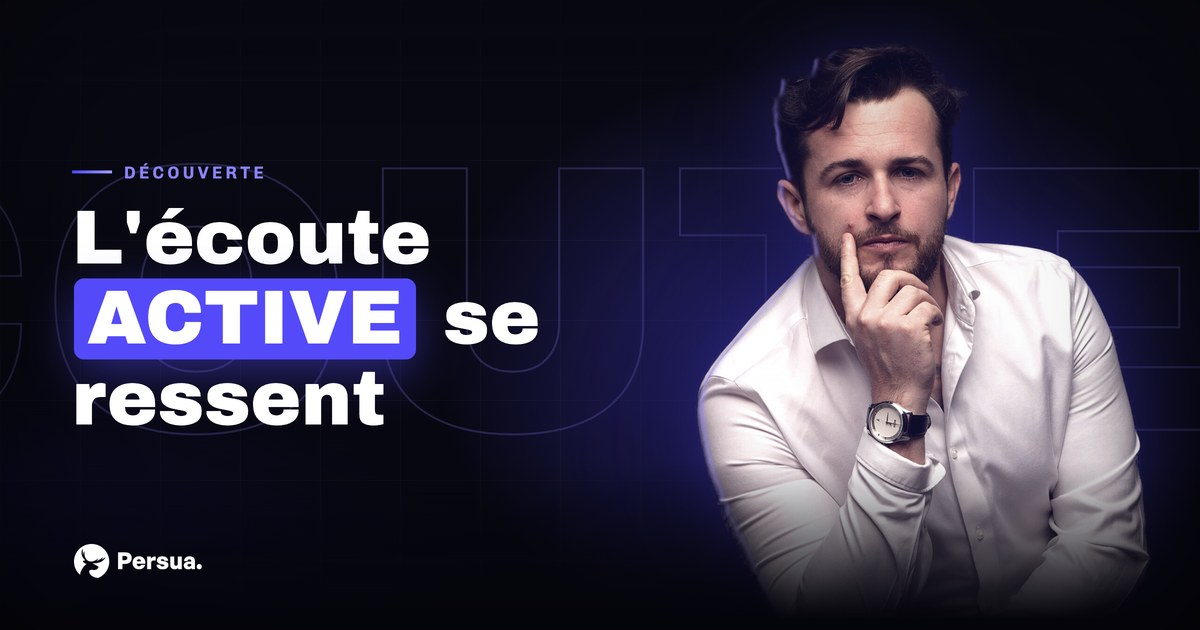
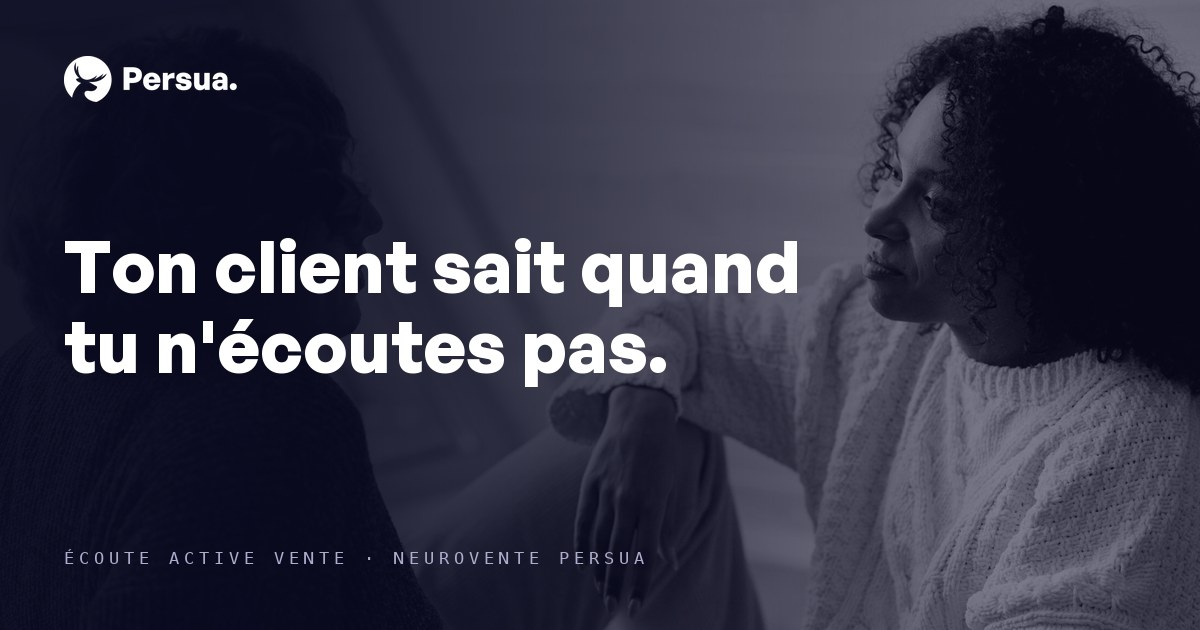
seo: publie /ecoute-active-vente (planning éditorial)

diff --git a/ecoute-active-vente.html b/ecoute-active-vente.html
@@ -9,10 +9,10 @@
 <meta property="og:image:height" content="630">
 <meta name="twitter:card" content="summary_large_image">
 <title>Écoute active en vente : écouter pour comprendre | Persua</title>
-<meta name="description" content="L'écoute active en vente : les 3 niveaux d'écoute, les signaux qui trahissent la fausse écoute, et comment écouter fait signer vos clients. Diagnostic gratuit.">
+<meta name="description" content="L'écoute active en vente : les 3 niveaux d'écoute, les signaux qui trahissent la fausse écoute, et comment écouter fait signer tes clients. Diagnostic gratuit.">
 <link rel="canonical" href="https://persua-neurovente.com/ecoute-active-vente">
 <meta property="og:type" content="article">
-<meta property="og:title" content="Écoute active en vente : votre client sait quand vous attendez votre tour de parler">
+<meta property="og:title" content="Écoute active en vente : ton client sait quand tu attends ton tour de parler">
 <meta property="og:description" content="Le cerveau du client détecte la fausse écoute. Les 3 niveaux d'écoute, et comment écouter vraiment fait vendre.">
 <link rel="preconnect" href="https://fonts.googleapis.com">
 <link rel="preconnect" href="https://fonts.gstatic.com" crossorigin>
@@ -20,10 +20,10 @@
 <link href="https://fonts.googleapis.com/css2?family=Archivo+Black&family=Chivo:wght@700;800;900&display=swap" rel="stylesheet">
 <link rel="stylesheet" href="assets/styles.css?v=37">
 <script type="application/ld+json">
-{"@context":"https://schema.org","@type":"Article","image":"https://persua-neurovente.com/assets/articles/ecoute-active-vente.jpg","headline":"Écoute active en vente : votre client sait quand vous attendez votre tour de parler","description":"La différence entre écouter pour comprendre et attendre son tour de parler, les signaux qui trahissent la fausse écoute (regard, relances mécaniques), les 3 niveaux d'écoute, et comment une vraie écoute transforme la découverte et le closing.","author":{"@type":"Person","name":"Steven Lefrançois","jobTitle":"Formateur en neurovente","url":"https://persua-neurovente.com/a-propos","sameAs":["https://www.linkedin.com/in/stevenlfrs","https://www.youtube.com/@steven_vente_persua"]},"publisher":{"@type":"Organization","name":"Persua"},"datePublished":"2026-10-08","inLanguage":"fr","mainEntityOfPage":"https://persua-neurovente.com/ecoute-active-vente","about":["écoute active vente","écoute active commercial","techniques d'écoute active","neurovente"]}
+{"@context":"https://schema.org","@type":"Article","image":"https://persua-neurovente.com/assets/articles/ecoute-active-vente.jpg","headline":"Écoute active en vente : ton client sait quand tu attends ton tour de parler","description":"La différence entre écouter pour comprendre et attendre son tour de parler, les signaux qui trahissent la fausse écoute (regard, relances mécaniques), les 3 niveaux d'écoute, et comment une vraie écoute transforme la découverte et le closing.","author":{"@type":"Person","name":"Steven Lefrançois","jobTitle":"Formateur en neurovente","url":"https://persua-neurovente.com/a-propos","sameAs":["https://www.linkedin.com/in/stevenlfrs","https://www.youtube.com/@steven_vente_persua"]},"publisher":{"@type":"Organization","name":"Persua"},"datePublished":"2026-10-08","inLanguage":"fr","mainEntityOfPage":"https://persua-neurovente.com/ecoute-active-vente","about":["écoute active vente","écoute active commercial","techniques d'écoute active","neurovente"]}
 </script>
 <script type="application/ld+json">
-{"@context":"https://schema.org","@type":"FAQPage","mainEntity":[{"@type":"Question","name":"Qu'est-ce que l'écoute active en vente ?","acceptedAnswer":{"@type":"Answer","text":"Écouter pour comprendre la situation du client, au lieu de préparer sa réponse pendant qu'il parle. Concrètement : le laisser finir, reformuler dans ses mots, creuser ce qu'il vient de dire avant d'ajouter quoi que ce soit. Le client se sent compris, et il livre les informations qui font signer."}},{"@type":"Question","name":"Comment pratiquer l'écoute active en rendez-vous ?","acceptedAnswer":{"@type":"Answer","text":"Trois gestes simples : laissez un silence d'une seconde après chaque réponse du client, reformulez ses mots exacts avant de rebondir, et posez votre question suivante sur ce qu'il vient de dire plutôt que sur votre liste. Si votre question suivante existait avant sa réponse, vous n'écoutiez pas."}},{"@type":"Question","name":"Quels sont les 3 niveaux d'écoute ?","acceptedAnswer":{"@type":"Answer","text":"Niveau 1 : écouter pour répondre, l'attention est sur soi. Niveau 2 : écouter pour comprendre, l'attention est sur les mots du client. Niveau 3 : écouter ce qui dépasse les mots, les hésitations, les changements de ton, ce que le client tait. Les ventes se gagnent au niveau 3."}},{"@type":"Question","name":"Pourquoi mon client sent-il que je n'écoute pas ?","acceptedAnswer":{"@type":"Answer","text":"Parce que votre cerveau ne sait pas faire deux choses à la fois : préparer votre réponse et écouter. Votre regard se fige, vos relances deviennent mécaniques, vos questions arrivent à côté. Le client capte ces signaux automatiquement, se sent réduit à un numéro de dossier, et se referme."}}]}
+{"@context":"https://schema.org","@type":"FAQPage","mainEntity":[{"@type":"Question","name":"Qu'est-ce que l'écoute active en vente ?","acceptedAnswer":{"@type":"Answer","text":"Écouter pour comprendre la situation du client, au lieu de préparer sa réponse pendant qu'il parle. Concrètement : le laisser finir, reformuler dans ses mots, creuser ce qu'il vient de dire avant d'ajouter quoi que ce soit. Le client se sent compris, et il livre les informations qui font signer."}},{"@type":"Question","name":"Comment pratiquer l'écoute active en rendez-vous ?","acceptedAnswer":{"@type":"Answer","text":"Trois gestes simples : laisse un silence d'une seconde après chaque réponse du client, reformule ses mots exacts avant de rebondir, et pose ta question suivante sur ce qu'il vient de dire plutôt que sur ta liste. Si ta question suivante existait avant sa réponse, tu n'écoutais pas."}},{"@type":"Question","name":"Quels sont les 3 niveaux d'écoute ?","acceptedAnswer":{"@type":"Answer","text":"Niveau 1 : écouter pour répondre, l'attention est sur soi. Niveau 2 : écouter pour comprendre, l'attention est sur les mots du client. Niveau 3 : écouter ce qui dépasse les mots, les hésitations, les changements de ton, ce que le client tait. Les ventes se gagnent au niveau 3."}},{"@type":"Question","name":"Pourquoi mon client sent-il que je n'écoute pas ?","acceptedAnswer":{"@type":"Answer","text":"Parce que ton cerveau ne sait pas faire deux choses à la fois : préparer ta réponse et écouter. Ton regard se fige, tes relances deviennent mécaniques, tes questions arrivent à côté. Le client capte ces signaux automatiquement, se sent réduit à un numéro de dossier, et se referme."}}]}
 </script>
 <script type="application/ld+json">
 {"@context":"https://schema.org","@type":"BreadcrumbList","itemListElement":[{"@type":"ListItem","position":1,"name":"Accueil","item":"https://persua-neurovente.com/"},{"@type":"ListItem","position":2,"name":"Blog","item":"https://persua-neurovente.com/blog"},{"@type":"ListItem","position":3,"name":"Écoute active en vente","item":"https://persua-neurovente.com/ecoute-active-vente"}]}
@@ -43,10 +43,10 @@
 <article class="article">
   <div class="crumb"><a href="/">Accueil</a> / <a href="/blog">Blog</a> / Fondamentaux</div>
   <span class="a-cat">Fondamentaux</span>
-  <h1>Écoute active en vente : votre client sait quand vous attendez votre tour de parler</h1>
+  <h1>Écoute active en vente : ton client sait quand tu attends ton tour de parler</h1>
   <div class="a-meta"><span class="av">SL</span><span>Par Steven Lefrançois · 6 min de lecture</span></div>
 
-  <p class="lead">Votre client parle, et pendant qu'il parle, vous préparez déjà votre réponse. Vous hochez la tête, vous glissez un « je comprends », et dès qu'il respire, vous placez votre argument. Vous croyez écouter. Lui, il sent très précisément que non. Et ce détail invisible vous coûte plus de ventes que toutes vos objections réunies, parce qu'un client qui ne se sent pas écouté garde pour lui les informations qui font signer.</p>
+  <p class="lead">Ton client parle, et pendant qu'il parle, tu prépares déjà ta réponse. Tu hoches la tête, tu glisses un « je comprends », et dès qu'il respire, tu places ton argument. Tu crois écouter. Lui, il sent très précisément que non. Et ce détail invisible te coûte plus de ventes que toutes tes objections réunies, parce qu'un client qui ne se sent pas écouté garde pour lui les informations qui font signer.</p>
 
   <figure class="article-hero"><img src="assets/articles/ecoute-active-vente.jpg" width="1200" height="630" loading="lazy" decoding="async" alt="Écoute active en vente : un commercial qui écoute pour comprendre son client au lieu d'attendre son tour de parler, méthode Persua"><figcaption>Le client dit tout. Encore faut-il être là quand il le dit.</figcaption></figure>
 
@@ -62,24 +62,24 @@
     </div>
 
     <h2>Écouter ou attendre son tour : le test qui fait mal</h2>
-    <p>Faites le test sur votre prochain rendez-vous. Pendant que votre client répond à votre question, observez où est votre attention : sur ses mots, ou sur la phrase que vous allez dire ensuite ? Si votre question suivante existait avant sa réponse, vous n'écoutiez pas, vous attendiez. La raison tient à un fait simple sur l'attention : la mémoire de travail est étroite, environ quatre éléments à la fois selon les travaux relayés par le <a href="https://www.cnrs.fr/fr" target="_blank" rel="noopener">CNRS</a> sur la <b>charge cognitive</b>. Préparer une réponse consomme cette capacité. Ce que le client dit pendant ce temps est perdu, et c'est précisément là qu'il lâche les vraies informations : le budget réel, la peur cachée, le décideur absent.</p>
+    <p>Fais le test sur ton prochain rendez-vous. Pendant que ton client répond à ta question, observe où est ton attention : sur ses mots, ou sur la phrase que tu vas dire ensuite ? Si ta question suivante existait avant sa réponse, tu n'écoutais pas, tu attendais. La raison tient à un fait simple sur l'attention : la mémoire de travail est étroite, environ quatre éléments à la fois selon les travaux relayés par le <a href="https://www.cnrs.fr/fr" target="_blank" rel="noopener">CNRS</a> sur la <b>charge cognitive</b>. Préparer une réponse consomme cette capacité. Ce que le client dit pendant ce temps est perdu, et c'est précisément là qu'il lâche les vraies informations : le budget réel, la peur cachée, le décideur absent.</p>
 
-    <h2>Votre client détecte la fausse écoute</h2>
-    <p>Le pire, c'est qu'il le voit. Le regard qui se fige ou décroche une demi-seconde, la relance mécanique placée au mauvais moment, la question suivante sans lien avec ce qu'il vient de confier. Le cerveau humain est une machine sociale : il capte ces micro-signaux de désengagement automatiquement, sans analyse consciente, comme le montrent les recherches en cognition sociale référencées sur <a href="https://pubmed.ncbi.nlm.nih.gov/" target="_blank" rel="noopener">PubMed</a>. Ce que votre client ressent alors ressemble à une relégation : il devient un dossier de plus. Sa confiance baisse, sa parole se raréfie, et votre <a href="/la-decouverte-en-vente">découverte</a> tourne à l'interrogatoire administratif. La fausse écoute se paie cash, en informations que vous n'aurez jamais.</p>
+    <h2>Ton client détecte la fausse écoute</h2>
+    <p>Le pire, c'est qu'il le voit. Le regard qui se fige ou décroche une demi-seconde, la relance mécanique placée au mauvais moment, la question suivante sans lien avec ce qu'il vient de confier. Le cerveau humain est une machine sociale : il capte ces micro-signaux de désengagement automatiquement, sans analyse consciente, comme le montrent les recherches en cognition sociale référencées sur <a href="https://pubmed.ncbi.nlm.nih.gov/" target="_blank" rel="noopener">PubMed</a>. Ce que ton client ressent alors ressemble à une relégation : il devient un dossier de plus. Sa confiance baisse, sa parole se raréfie, et ta <a href="/la-decouverte-en-vente">découverte</a> tourne à l'interrogatoire administratif. La fausse écoute se paie cash, en informations que tu n'auras jamais.</p>
 
     <figure class="article-hero" style="margin:34px 0"><img src="assets/articles/ecoute-active-vente-2.jpg" width="1200" height="675" loading="lazy" decoding="async" alt="Groupe en discussion, chacun tourné vers celui qui parle"><figcaption>L'écoute se voit : posture, regard, relances dans les mots de l'autre.</figcaption></figure>
 
     <h2>Les 3 niveaux d'écoute</h2>
-    <p>Pour progresser, situez-vous d'abord. Il existe trois niveaux d'écoute, et chacun change ce que le client vous donne :</p>
+    <p>Pour progresser, situe-toi d'abord. Il existe trois niveaux d'écoute, et chacun change ce que le client te donne :</p>
     <ul>
-      <li><b>Niveau 1 : écouter pour répondre.</b> Votre attention est sur vous, votre réponse, votre offre. Vous entendez des mots-clés et vous dégainez. Le client s'en aperçoit et reste en surface.</li>
-      <li><b>Niveau 2 : écouter pour comprendre.</b> Votre attention est sur ses mots. Vous laissez finir, vous reformulez dans ses termes, vous creusez avant d'ajouter quoi que ce soit. Le client se sent compris et développe.</li>
-      <li><b>Niveau 3 : écouter ce qui dépasse les mots.</b> L'hésitation avant « oui », le changement de ton sur le budget, le sujet systématiquement évité. À ce niveau, vous entendez ce que le client ne s'est pas encore dit à lui-même. Les ventes se gagnent ici.</li>
+      <li><b>Niveau 1 : écouter pour répondre.</b> Ton attention est sur toi, ta réponse, ton offre. Tu entends des mots-clés et tu dégaines. Le client s'en aperçoit et reste en surface.</li>
+      <li><b>Niveau 2 : écouter pour comprendre.</b> Ton attention est sur ses mots. Tu laisses finir, tu reformules dans ses termes, tu creuses avant d'ajouter quoi que ce soit. Le client se sent compris et développe.</li>
+      <li><b>Niveau 3 : écouter ce qui dépasse les mots.</b> L'hésitation avant « oui », le changement de ton sur le budget, le sujet systématiquement évité. À ce niveau, tu entends ce que le client ne s'est pas encore dit à lui-même. Les ventes se gagnent ici.</li>
     </ul>
-    <p>Le niveau 3 porte un nom en formation : l'<b>écoute active</b>, théorisée par le psychologue Carl Rogers. Elle demande une chose contre-intuitive : accepter de ne rien préparer pendant que l'autre parle, et faire confiance à votre trame pour retrouver le fil.</p>
+    <p>Le niveau 3 porte un nom en formation : l'<b>écoute active</b>, théorisée par le psychologue Carl Rogers. Elle demande une chose contre-intuitive : accepter de ne rien préparer pendant que l'autre parle, et faire confiance à ta trame pour retrouver le fil.</p>
 
     <h2>L'écoute qui fait vendre : questions, reformulation, silence</h2>
-    <p>Sur le terrain, l'écoute active s'appuie sur trois outils. Les <a href="/questions-ouvertes-vente">questions ouvertes</a>, qui donnent au client l'espace de dérouler sa situation. La reformulation dans ses mots exacts, qui déclenche le fameux « c'est exactement ça » : dans la <a href="/methode-calme">Méthode CALME</a>, c'est l'étape Miroir, celle où le client s'entend penser à voix haute. Et le silence : une seconde de plus après sa réponse, et il complète, souvent avec l'essentiel. Charlyne, une entrepreneuse passée par le coaching Persua, le résume mieux que moi : « le coaching m'a permis de mieux comprendre les mécanismes de décision des clients et d'améliorer ma manière de vendre ». Comprendre commence par entendre. Le jour où vous écoutez au niveau 3, votre client se convainc presque sans vous.</p>
+    <p>Sur le terrain, l'écoute active s'appuie sur trois outils. Les <a href="/questions-ouvertes-vente">questions ouvertes</a>, qui donnent au client l'espace de dérouler sa situation. La reformulation dans ses mots exacts, qui déclenche le fameux « c'est exactement ça » : dans la <a href="/methode-calme">Méthode CALME</a>, c'est l'étape Miroir, celle où le client s'entend penser à voix haute. Et le silence : une seconde de plus après sa réponse, et il complète, souvent avec l'essentiel. Charlyne, une entrepreneuse passée par le coaching Persua, le résume mieux que moi : « le coaching m'a permis de mieux comprendre les mécanismes de décision des clients et d'améliorer ma manière de vendre ». Comprendre commence par entendre. Le jour où tu écoutes au niveau 3, ton client se convainc presque sans toi.</p>
 
     <div style="display:flex;gap:30px;flex-wrap:wrap;margin:30px 0;padding:24px 26px;border:1px solid rgba(255,255,255,.12);border-radius:16px;background:rgba(255,255,255,.03)">
       <div><div style="font-family:'Archivo Black',sans-serif;font-size:30px;line-height:1">+350</div><div style="color:#9B96B8;font-size:13px;margin-top:5px">commerciaux accompagnés</div></div>
@@ -88,17 +88,17 @@
     </div>
 
     <div class="article-cta">
-      <h3>À quel niveau écoutez-vous vraiment ?</h3>
-      <p>Le diagnostic Persua analyse votre manière de vendre, écoute comprise. Un score et un plan perso, en 5 minutes.</p>
+      <h3>À quel niveau écoutes-tu vraiment ?</h3>
+      <p>Le diagnostic Persua analyse ta manière de vendre, écoute comprise. Un score et un plan perso, en 5 minutes.</p>
       <a class="btn btn-primary" href="https://diagnostic.persua-neurovente.com/">Faire le diagnostic gratuit →</a>
     </div>
 
     <h2>FAQ</h2>
     <div class="faq">
       <details open><summary>Qu'est-ce que l'écoute active en vente ?</summary><div class="fa-body">Écouter pour comprendre la situation du client, au lieu de préparer sa réponse pendant qu'il parle. Concrètement : le laisser finir, reformuler dans ses mots, creuser ce qu'il vient de dire avant d'ajouter quoi que ce soit. Le client se sent compris, et il livre les informations qui font signer.</div></details>
-      <details><summary>Comment pratiquer l'écoute active en rendez-vous ?</summary><div class="fa-body">Trois gestes simples : laissez un silence d'une seconde après chaque réponse du client, reformulez ses mots exacts avant de rebondir, et posez votre question suivante sur ce qu'il vient de dire plutôt que sur votre liste. Si votre question suivante existait avant sa réponse, vous n'écoutiez pas.</div></details>
+      <details><summary>Comment pratiquer l'écoute active en rendez-vous ?</summary><div class="fa-body">Trois gestes simples : laisse un silence d'une seconde après chaque réponse du client, reformule ses mots exacts avant de rebondir, et pose ta question suivante sur ce qu'il vient de dire plutôt que sur ta liste. Si ta question suivante existait avant sa réponse, tu n'écoutais pas.</div></details>
       <details><summary>Quels sont les 3 niveaux d'écoute ?</summary><div class="fa-body">Niveau 1 : écouter pour répondre, l'attention est sur soi. Niveau 2 : écouter pour comprendre, l'attention est sur les mots du client. Niveau 3 : écouter ce qui dépasse les mots, les hésitations, les changements de ton, ce que le client tait. Les ventes se gagnent au niveau 3.</div></details>
-      <details><summary>Pourquoi mon client sent-il que je n'écoute pas ?</summary><div class="fa-body">Parce que votre cerveau ne sait pas faire deux choses à la fois : préparer votre réponse et écouter. Votre regard se fige, vos relances deviennent mécaniques, vos questions arrivent à côté. Le client capte ces signaux automatiquement, se sent réduit à un numéro de dossier, et se referme.</div></details>
+      <details><summary>Pourquoi mon client sent-il que je n'écoute pas ?</summary><div class="fa-body">Parce que ton cerveau ne sait pas faire deux choses à la fois : préparer ta réponse et écouter. Ton regard se fige, tes relances deviennent mécaniques, tes questions arrivent à côté. Le client capte ces signaux automatiquement, se sent réduit à un numéro de dossier, et se referme.</div></details>
     </div>
 
     <div class="author-box">
@@ -108,9 +108,9 @@
 
     <div class="related">
       <h3>Aller plus loin</h3>
-      <p>→ <a href="/la-decouverte-en-vente">La découverte : la phase qui fait vendre à votre place</a></p>
+      <p>→ <a href="/la-decouverte-en-vente">La découverte : la phase qui fait vendre à ta place</a></p>
       <p>→ <a href="/questions-ouvertes-vente">Les questions ouvertes : l'outil qui fait parler le vrai besoin</a></p>
-      <p>→ <a href="/le-silence-apres-le-prix">Le silence après le prix : le laisser travailler pour vous</a></p>
+      <p>→ <a href="/le-silence-apres-le-prix">Le silence après le prix : le laisser travailler pour toi</a></p>
     </div>
   </div>
 </article>
